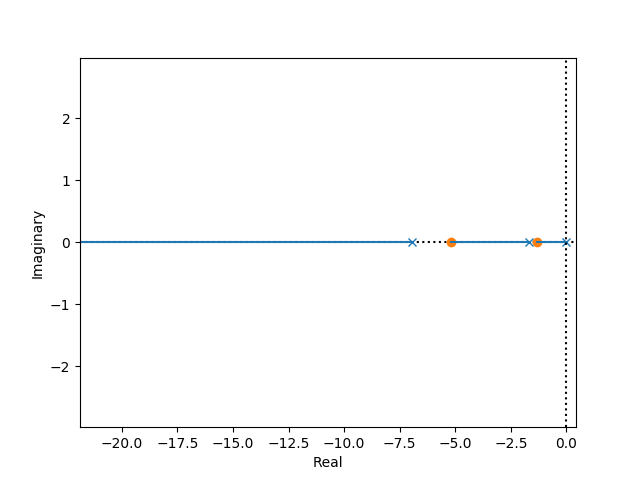
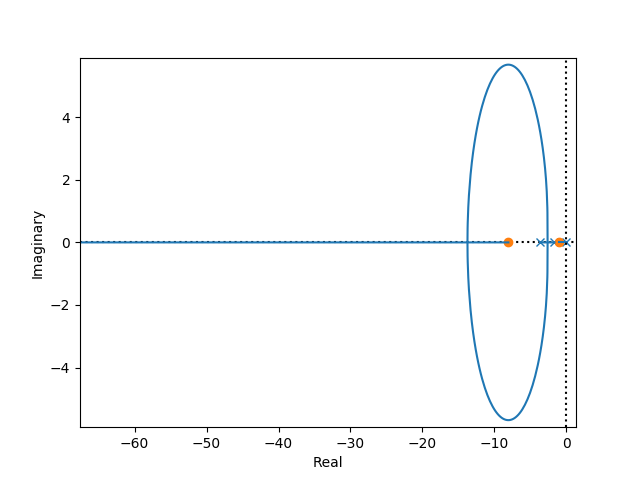
controladores para o modelo de primeira ordem

diff --git a/Python-codes/Make-Controls/makeControlOrd1.py b/Python-codes/Make-Controls/makeControlOrd1.py
@@ -31,7 +31,7 @@ Denominador     = np.array([1, 1.663], dtype=float)
 ts_esp          = 3                        # tempo de estabelecimento
 Mp_esp          = 10                         # overshoot esperado em porcentagem
 Mp_folga        = 5                          # folga dada ao Mp, pq da aproximação de compensador para 2ª ordem
-e_esp           = 0.03                        # margem de fase de segurança, variavel
+e_esp           = 0.01                        # margem de fase de segurança, variavel
 
 MFd             = 50
 MFseg           = 5
@@ -58,14 +58,14 @@ else:
     gaindc_MA = (Kp_MA*np.prod(-1*zeros_MA)) / (np.prod(-1*polos_MA))
 
     # Salva os dados de resposta em frequencia
-[mag_MA,phase_MA,wout_MA] = bode(G_MA,)
+#[mag_MA,phase_MA,wout_MA] = bode(G_MA,)
 
 #testControl(G_MA, 1, step, ramp, t, dist_p, dist_n)
 
 # Controladores
     # Controlador em avanço por lugar das raizes
-#Cavlr   = cavlr(e_esp, Mp_esp, Mp_folga, ts_esp, polos_MA, zeros_MA, Kp_MA)
-#testControl(G_MA, Cavlr, step, ramp, t, dist_p, dist_n)
+Cavlr   = cavlr(e_esp, Mp_esp, Mp_folga, ts_esp, polos_MA, zeros_MA, Kp_MA)
+testControl(G_MA, Cavlr, step, ramp, t, dist_p, dist_n)
 
     # Controlador em atraso por lugar das raizes
 #Catlr   = catlr(e_esp, Mp_esp, Mp_folga, ts_esp, polos_MA, zeros_MA, Kp_MA, gaindc_MA, pos_polo_c=0.03)
@@ -80,8 +80,8 @@ else:
 #testControl(G_MA, Cavrf, step, ramp, t, dist_p, dist_n)
 
     # Controlador em atraso por resposta em frequencia
-Catrf = catrf(e_esp, Kp_MA, G_MA, MFd, MFseg, phase_MA, wout_MA)
-testControl(G_MA, Catrf, step, ramp, t, dist_p, dist_n)
+#Catrf = catrf(e_esp, Kp_MA, G_MA, MFd, MFseg, phase_MA, wout_MA)
+#testControl(G_MA, Catrf, step, ramp, t, dist_p, dist_n)
 
     # Controlador em avanço-atraso por resposta em frequencia
     
